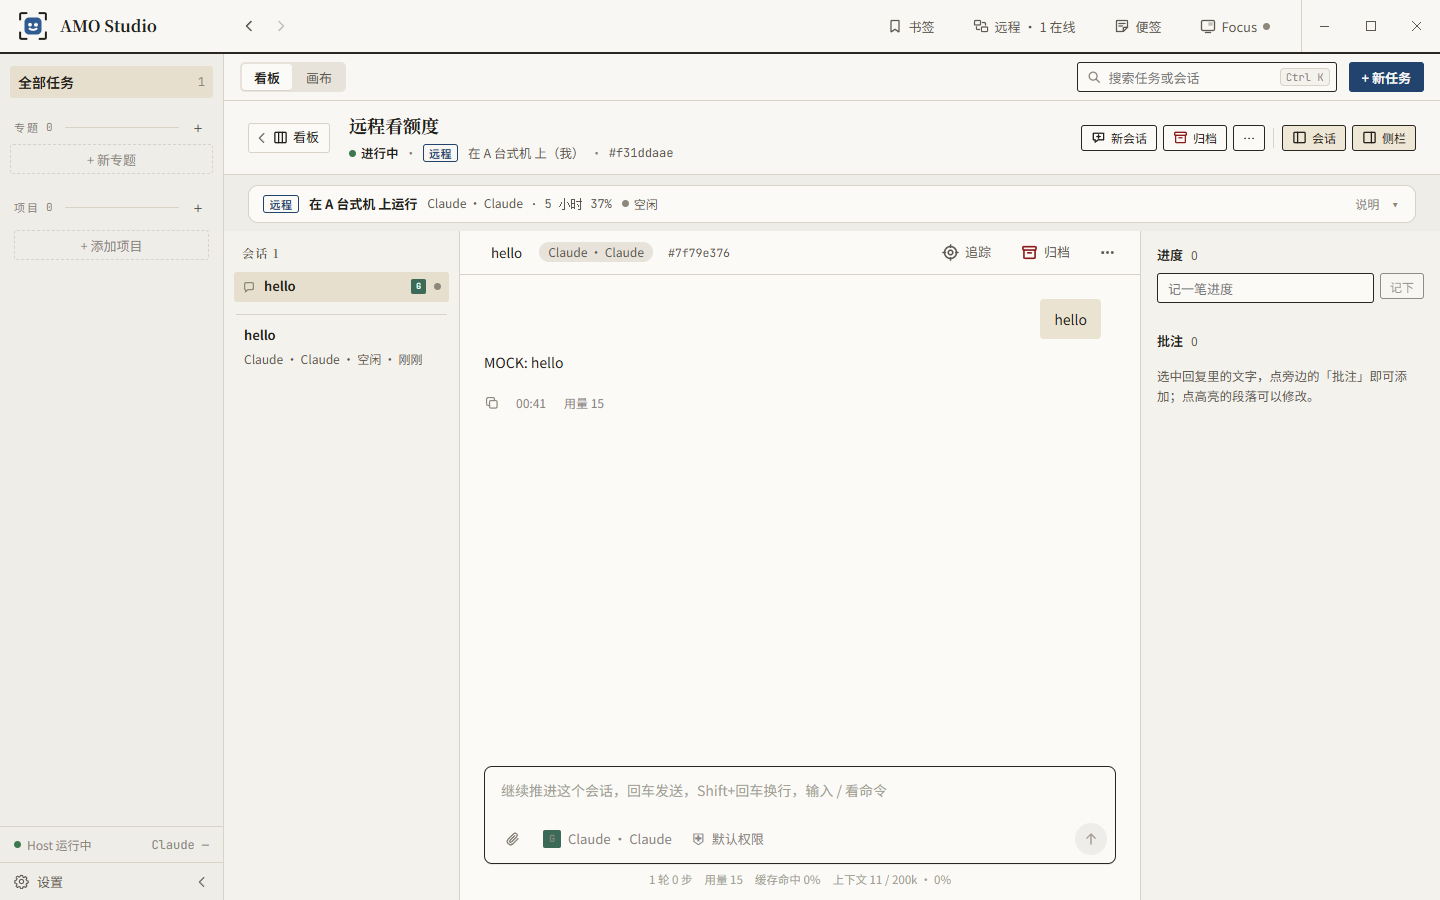
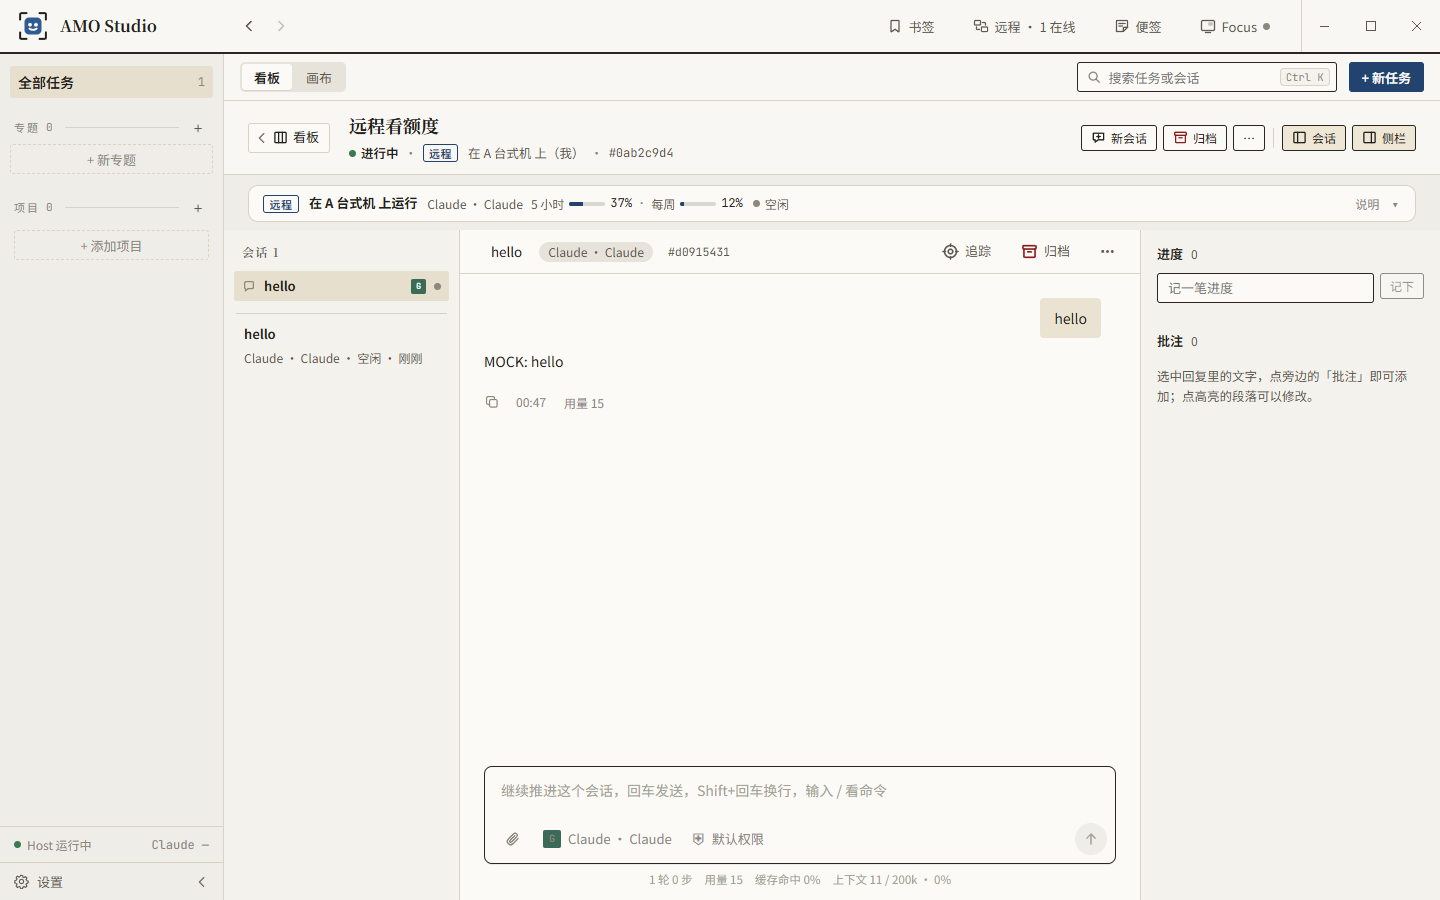
feat(remote): the remote line shows every quota window with a bar (the user, 2026-11-06: Claude 的 5 小时和周限额都要显示；用进度条，好看一点) — folded, RemoteBanner lists each window beside its model (「5 小时 ▬ 37% · 每周 ▬ 12%」) with the left column's .usage-bar and the share used, red from 80% as there, the tooltip sayin

diff --git a/studio/packages/ui/src/task/RemoteBanner.tsx b/studio/packages/ui/src/task/RemoteBanner.tsx
@@ -4,7 +4,7 @@ import type { CopyStatus } from "../remote/remote.js";
 import { SESSION_LOOK, relativeTime, taskStatus } from "../lib/status.js";
 import { readStored, writeStored } from "../lib/stored.js";
 import { balanceText, money } from "../lib/balance.js";
-import { UsageAccount, useNow } from "../board/UsageFooter.js";
+import { UsageAccount, resetIn, useNow } from "../board/UsageFooter.js";
 
 // 远程 (step 2, 2026-10-29) under the head of a copy of another computer's task. 2026-10-30 (the user): one line by
 // default — the 远程 mark, where it runs and how its models are doing; the explanation folds out beneath, under the
@@ -36,16 +36,37 @@ export function remoteQuota(usage: RemotePeerUsage | undefined, profileId: Id): 
   return u || b ? { ...(u ? { usage: u } : {}), ...(b ? { balance: b } : {}) } : null;
 }
 
-/** The folded line's word on it: the most used window ("5 小时 37%"), or the balance ("余额 ¥88.10"). */
-export function quotaShort(q: { usage?: AccountUsage; balance?: ChannelBalance }): { text: string; hot: boolean; title: string } | null {
-  const known = (q.usage?.windows ?? []).filter((w) => w.usedPercent !== null);
-  if (known.length) {
-    const w = known.reduce((a, b) => (b.usedPercent! > a.usedPercent! ? b : a));
-    return { text: `${w.label} ${w.usedPercent}%`, hot: w.usedPercent! >= 80, title: `${w.label}已用 ${w.usedPercent}%` };
-  }
-  const b = q.balance;
-  if (b) return { text: b.remaining !== null ? `余额 ${money(b.remaining, b.unit)}` : balanceText(b), hot: false, title: balanceText(b) };
-  return null;
+/**
+ * The folded line's word on a model's quota (2026-11-06, the user: Claude 的 5 小时和周限额都要显示，用进度条): every
+ * window with the left column's bar and how much is used (「5 小时 ▬▭ 37% · 每周 ▬▭ 12%」), or, without windows, the
+ * balance (「余额 ¥88.10」). A narrow page drops the bars first, then clips (as the left column's folded line does).
+ */
+function QuotaInline({ usage, balance, from, now }: { usage?: AccountUsage; balance?: ChannelBalance; from: string; now: Date }) {
+  const windows = usage?.windows ?? [];
+  if (!windows.length && !balance) return null;
+  return (
+    <span className="remote-banner-quota" data-testid="remote-banner-quota">
+      {windows.map((w) => {
+        const used = w.usedPercent;
+        const hot = used !== null && used >= 80;
+        const title = `${from} 上的数据：${w.label}${used === null ? "用量未知" : `已用 ${used}%，剩 ${Math.max(0, 100 - used)}%`}${w.resetsAt ? `，${resetIn(w.resetsAt, now)} 后重置` : ""}`;
+        return (
+          <span key={w.label} className="remote-banner-win" title={title} data-testid="remote-banner-win">
+            <span className="remote-banner-win-label">{w.label}</span>
+            <span className="usage-bar" aria-hidden="true">
+              {used !== null && <span className={hot ? "hot" : undefined} style={{ width: `${Math.min(100, used)}%` }} />}
+            </span>
+            <span className={hot ? "remote-banner-win-pct hot" : "remote-banner-win-pct"}>{used === null ? "—" : `${used}%`}</span>
+          </span>
+        );
+      })}
+      {!windows.length && balance && (
+        <span className="remote-banner-win" title={`${from} 上的数据：${balanceText(balance)}`} data-testid="remote-banner-win">
+          <span className="remote-banner-win-pct">{balance.remaining !== null ? `余额 ${money(balance.remaining, balance.unit)}` : balanceText(balance)}</span>
+        </span>
+      )}
+    </span>
+  );
 }
 
 export function RemoteBanner({ task, copy, sessions, profiles, usage }: { task: Task; copy: CopyStatus; sessions: readonly Session[]; profiles: readonly ModelProfile[]; usage?: RemotePeerUsage }) {
@@ -68,7 +89,8 @@ export function RemoteBanner({ task, copy, sessions, profiles, usage }: { task: 
     const q = remoteQuota(usage, m.id);
     return q ? [{ ...m, ...q }] : [];
   });
-  const now = useNow(open && quotas.length > 0);
+  // Ticking for the reset times (the folded line's tooltips too).
+  const now = useNow(quotas.length > 0);
   return (
     <div className={`remote-banner ${copy.state}${open ? " open" : ""}`} role="status" data-testid="remote-banner" data-state={copy.state}>
       <button type="button" className="remote-banner-head" aria-expanded={open} onClick={() => setOpen(!open)} data-testid="remote-banner-toggle">
@@ -79,16 +101,11 @@ export function RemoteBanner({ task, copy, sessions, profiles, usage }: { task: 
             <span className="remote-banner-models">
               {watch.models.map((m, i) => {
                 const q = quotas.find((x) => x.id === m.id);
-                const short = q ? quotaShort(q) : null;
                 return (
-                  <span key={m.id}>
+                  <span key={m.id} className="remote-banner-model">
                     {i > 0 && "、"}
-                    {m.label}
-                    {short && (
-                      <span className={short.hot ? "remote-banner-quota hot" : "remote-banner-quota"} title={`${copy.name} 上的数据：${short.title}`} data-testid="remote-banner-quota">
-                        {` · ${short.text}`}
-                      </span>
-                    )}
+                    <span className="remote-banner-model-name">{m.label}</span>
+                    {q && <QuotaInline usage={q.usage} balance={q.balance} from={copy.name} now={now} />}
                   </span>
                 );
               })}

diff --git a/studio/e2e/studio/remote-usage.spec.ts b/studio/e2e/studio/remote-usage.spec.ts
@@ -2,7 +2,7 @@ import { mkdirSync, mkdtempSync, writeFileSync } from "node:fs";
 import { tmpdir } from "node:os";
 import { join } from "node:path";
 import { pathToFileURL } from "node:url";
-import { expect, test } from "@playwright/test";
+import { expect, test, type Page } from "@playwright/test";
 import type { AccountUsage, RemoteState, Task } from "@amo-studio/protocol";
 import { removeTempDir } from "@amo-studio/testkit";
 import { launchStudio, screenshot, studioRoot, type Studio } from "../support/studio.js";
@@ -37,6 +37,8 @@ async function home(name: string, key: string, device: string): Promise<string> 
   account.setDeviceName(device, { env: { AMO_HOME: dir } });
   return dir;
 }
+
+const theme = (page: Page, which: "light" | "dark") => page.evaluate((t) => document.documentElement.setAttribute("data-theme", t), which);
 
 async function until<T>(read: () => Promise<T>, ok: (v: T) => boolean, what: string, ms = 30_000): Promise<T> {
   const end = Date.now() + ms;
@@ -88,10 +90,20 @@ test("B's task page shows the quota A has read for the task's model, folded and 
   await expect(banner).toHaveAttribute("data-state", "online");
   // Folded: one line, the model with its most used window.
   if ((await banner.getByTestId("remote-banner-toggle").getAttribute("aria-expanded")) === "true") await banner.getByTestId("remote-banner-toggle").click();
-  await expect(banner.getByTestId("remote-banner-quota")).toHaveText(" · 5 小时 37%");
+  // Folded (the user, 2026-11-06: 5 小时和周限额都要显示，用进度条): every window, a small bar and the share used.
+  const wins = banner.getByTestId("remote-banner-quota").getByTestId("remote-banner-win");
+  await expect(wins).toHaveCount(2);
+  await expect(wins.nth(0)).toHaveText(/^5 小时\s*37%$/);
+  await expect(wins.nth(1)).toHaveText(/^每周\s*12%$/);
+  await expect(wins.nth(0).locator(".usage-bar")).toBeVisible();
+  await expect(wins.nth(0).locator(".usage-bar > span")).toHaveAttribute("style", /width: 37%/);
+  await expect(wins.nth(0)).toHaveAttribute("title", /A 台式机 上的数据：5 小时已用 37%，剩 63%，1h 3\dm 后重置/);
   await expect(banner.getByTestId("remote-banner-watch")).toContainText("Claude");
   await expect(banner.getByTestId("remote-banner-usage")).toHaveCount(0);
   await screenshot(b.app, "studio", "remote-usage-folded", b.page);
+  await theme(b.page, "dark");
+  await screenshot(b.app, "studio", "remote-usage-folded-dark", b.page);
+  await theme(b.page, "light");
 
   // Open: every window, what is left and when it resets, whose numbers and how old.
   await banner.getByTestId("remote-banner-toggle").click();
@@ -103,6 +115,20 @@ test("B's task page shows the quota A has read for the task's model, folded and 
   await expect(windows.nth(1)).toContainText("剩 88%");
   await expect(open).toContainText(/A 台式机 上的数据 · (刚刚|\d+ 分钟前)更新/);
   await screenshot(b.app, "studio", "remote-usage-open", b.page);
+  await theme(b.page, "dark");
+  await screenshot(b.app, "studio", "remote-usage-open-dark", b.page);
+  await theme(b.page, "light");
   // Folded again for the next copy (remembered).
+  await banner.getByTestId("remote-banner-toggle").click();
+
+  // A narrow window: the bars go, the percentages stay on one line, and nothing spills out of the banner.
+  await b.app.evaluate(({ BrowserWindow }) => BrowserWindow.getAllWindows()[0]!.setSize(1000, 760));
+  await expect(wins.nth(0).locator(".usage-bar")).toBeHidden();
+  await expect(wins.nth(0)).toContainText("37%");
+  const head = await banner.getByTestId("remote-banner-toggle").boundingBox();
+  expect(head!.height).toBeLessThan(40);
+  await screenshot(b.app, "studio", "remote-usage-narrow", b.page);
+  await banner.getByTestId("remote-banner-toggle").click();
+  await screenshot(b.app, "studio", "remote-usage-narrow-open", b.page);
   await banner.getByTestId("remote-banner-toggle").click();
 });

diff --git a/studio/packages/ui/src/task/task.css b/studio/packages/ui/src/task/task.css
@@ -69,9 +69,24 @@
 .remote-banner-caret { flex: none; color: var(--text-faint); font-size: 14px; line-height: 1; transition: transform 0.15s; }
 .remote-banner-caret.open { transform: rotate(180deg); }
 .remote-banner-detail { margin: 0; padding: 0 14px 9px 60px; color: var(--text-dim); line-height: 1.6; }
-/* 远程额度 (2026-11-06): A's quota of the task's models — a word beside each model folded, the left column's rows open. */
-.remote-banner-quota { font-family: var(--font-code); }
-.remote-banner-quota.hot { color: var(--error-text); }
+/* 远程额度 (2026-11-06): A's quota of the task's models — folded, every window beside its model with the left column's
+   bar (.usage-bar) and the share used; open, the left column's rows. Narrow, the bars go first, then the line clips
+   like the left column's folded line. */
+.remote-banner[data-state] { container: remote-banner / inline-size; }
+.remote-banner-models { display: flex; align-items: center; min-width: 0; }
+.remote-banner-model { flex: none; display: inline-flex; align-items: center; gap: 8px; white-space: nowrap; }
+.remote-banner-model + .remote-banner-model { margin-left: 2px; }
+.remote-banner-quota { display: inline-flex; align-items: center; gap: 6px; font-family: var(--font-code); }
+.remote-banner-win { display: inline-flex; align-items: center; gap: 5px; }
+.remote-banner-win + .remote-banner-win::before { content: "·"; margin-right: 1px; color: var(--text-faint); }
+.remote-banner-win-label { font-family: var(--font-ui); }
+/* The left column's bar; its track a shade stronger, or a 36 px one on the banner's panel reads as a dash in the dark theme. */
+.remote-banner-win .usage-bar { flex: none; width: 36px; height: 4px; background: color-mix(in srgb, var(--text-faint) 30%, transparent); }
+.remote-banner-win-pct { color: var(--text); }
+.remote-banner-win-pct.hot { color: var(--error-text); }
+@container remote-banner (max-width: 760px) {
+  .remote-banner-win .usage-bar { display: none; }
+}
 .remote-banner .remote-banner-usage { max-height: none; overflow: visible; margin: 0 14px 8px 60px; padding: 0; max-width: 520px; }
 /* A copy's model names carry the runtime (「Claude · Claude」): a wider name column than the left column's. */
 .remote-banner-usage .usage-acct { grid-template-columns: 130px minmax(0, 1fr); }

diff --git a/studio/packages/app/CHANGELOG.md b/studio/packages/app/CHANGELOG.md
@@ -7,6 +7,7 @@
 - DeepSeek（DSH）会话自己用 `subagent` 开的子 agent 现在能看到了：以前只有一行，一开始就显示「完成」，子 agent 做了什么一行都看不到。现在和 Claude 的子 agent 一样，在父会话下面挂一个子会话，里面边跑边显示它收到的任务、思考、命令、回复；父会话里那一行显示它的状态（◐ 进行中、✓ 已完成、! 已中断、! 出错了）和用量，它发回结果时父会话里也有一行。子会话不能单独发消息，要在父会话里继续。Claude 子 agent 的那一行也会显示状态。DSH 要等子 agent 都跑完这一轮才结束，这期间发的消息会显示「等子 agent 跑完后送到」；不想等的话，让它用 AMO 的子会话开子 agent。
 - 设置 → 功能里新增「命令行适配（Windows）」，默认开着：agent 跑的 Python 按 UTF-8 输出中文（Studio 给 Claude、Codex、DeepSeek 设置 `PYTHONUTF8`、`PYTHONIOENCODING`，你自己设过的以你的为准），AMO 给 agent 的说明里多几条 Windows 命令行的注意事项（Bash 里路径用正斜杠；带反斜杠、正则、多层引号的脚本写成文件再跑；PowerShell 里不用 bash 写法，读写文件带 `-Encoding utf8`）。起因是翻了本机的会话记录：Windows 上最常见的命令失败是中文乱码（Claude 的 Bash 里 469 次，Codex 5、6 月 6,700 多次），其次是引号和反斜杠。关掉后，之后新开的会话就不带这些；Codex 要等它下次启动。
 - 远程任务的任务页上直接显示被控端的模型额度：那台电脑已经读到过这个模型的额度（Claude、GPT 的用量窗口，或渠道余额），收起时在模型名旁边写最紧的那个窗口（例如「Claude · 5 小时 37%」）或余额，展开说明后显示每个窗口剩多少、多久重置，并写明「A 台式机 上的数据 · X 分钟前更新」。被控端只发它已经有的数字，额度有变化时自动发过来，不会为这边去查或刷新；没读到过的模型什么都不显示。目前只发给同一个账号登录的设备（你自己的另一台电脑），别的账号的设备看不到。两台电脑都要更新到这一版才会显示。
+- 远程任务的任务页上直接显示被控端的模型额度：那台电脑已经读到过这个模型的额度（Claude、GPT 的用量窗口，或渠道余额），收起时在模型名旁边列出每个窗口，各带一根小进度条和已用的百分比（例如「5 小时 ▬ 37% · 每周 ▬ 12%」，鼠标停上去看剩多少、多久重置；窗口窄时先省掉进度条），没有窗口的渠道写余额；展开说明后用和左下角额度一样的完整进度条显示每个窗口剩多少、多久重置，并写明「A 台式机 上的数据 · X 分钟前更新」。被控端只发它已经有的数字，额度有变化时自动发过来，不会为这边去查或刷新；没读到过的模型什么都不显示。目前只发给同一个账号登录的设备（你自己的另一台电脑），别的账号的设备看不到。两台电脑都要更新到这一版才会显示。
 
 ## 0.9.44（2026-11-05）
 
